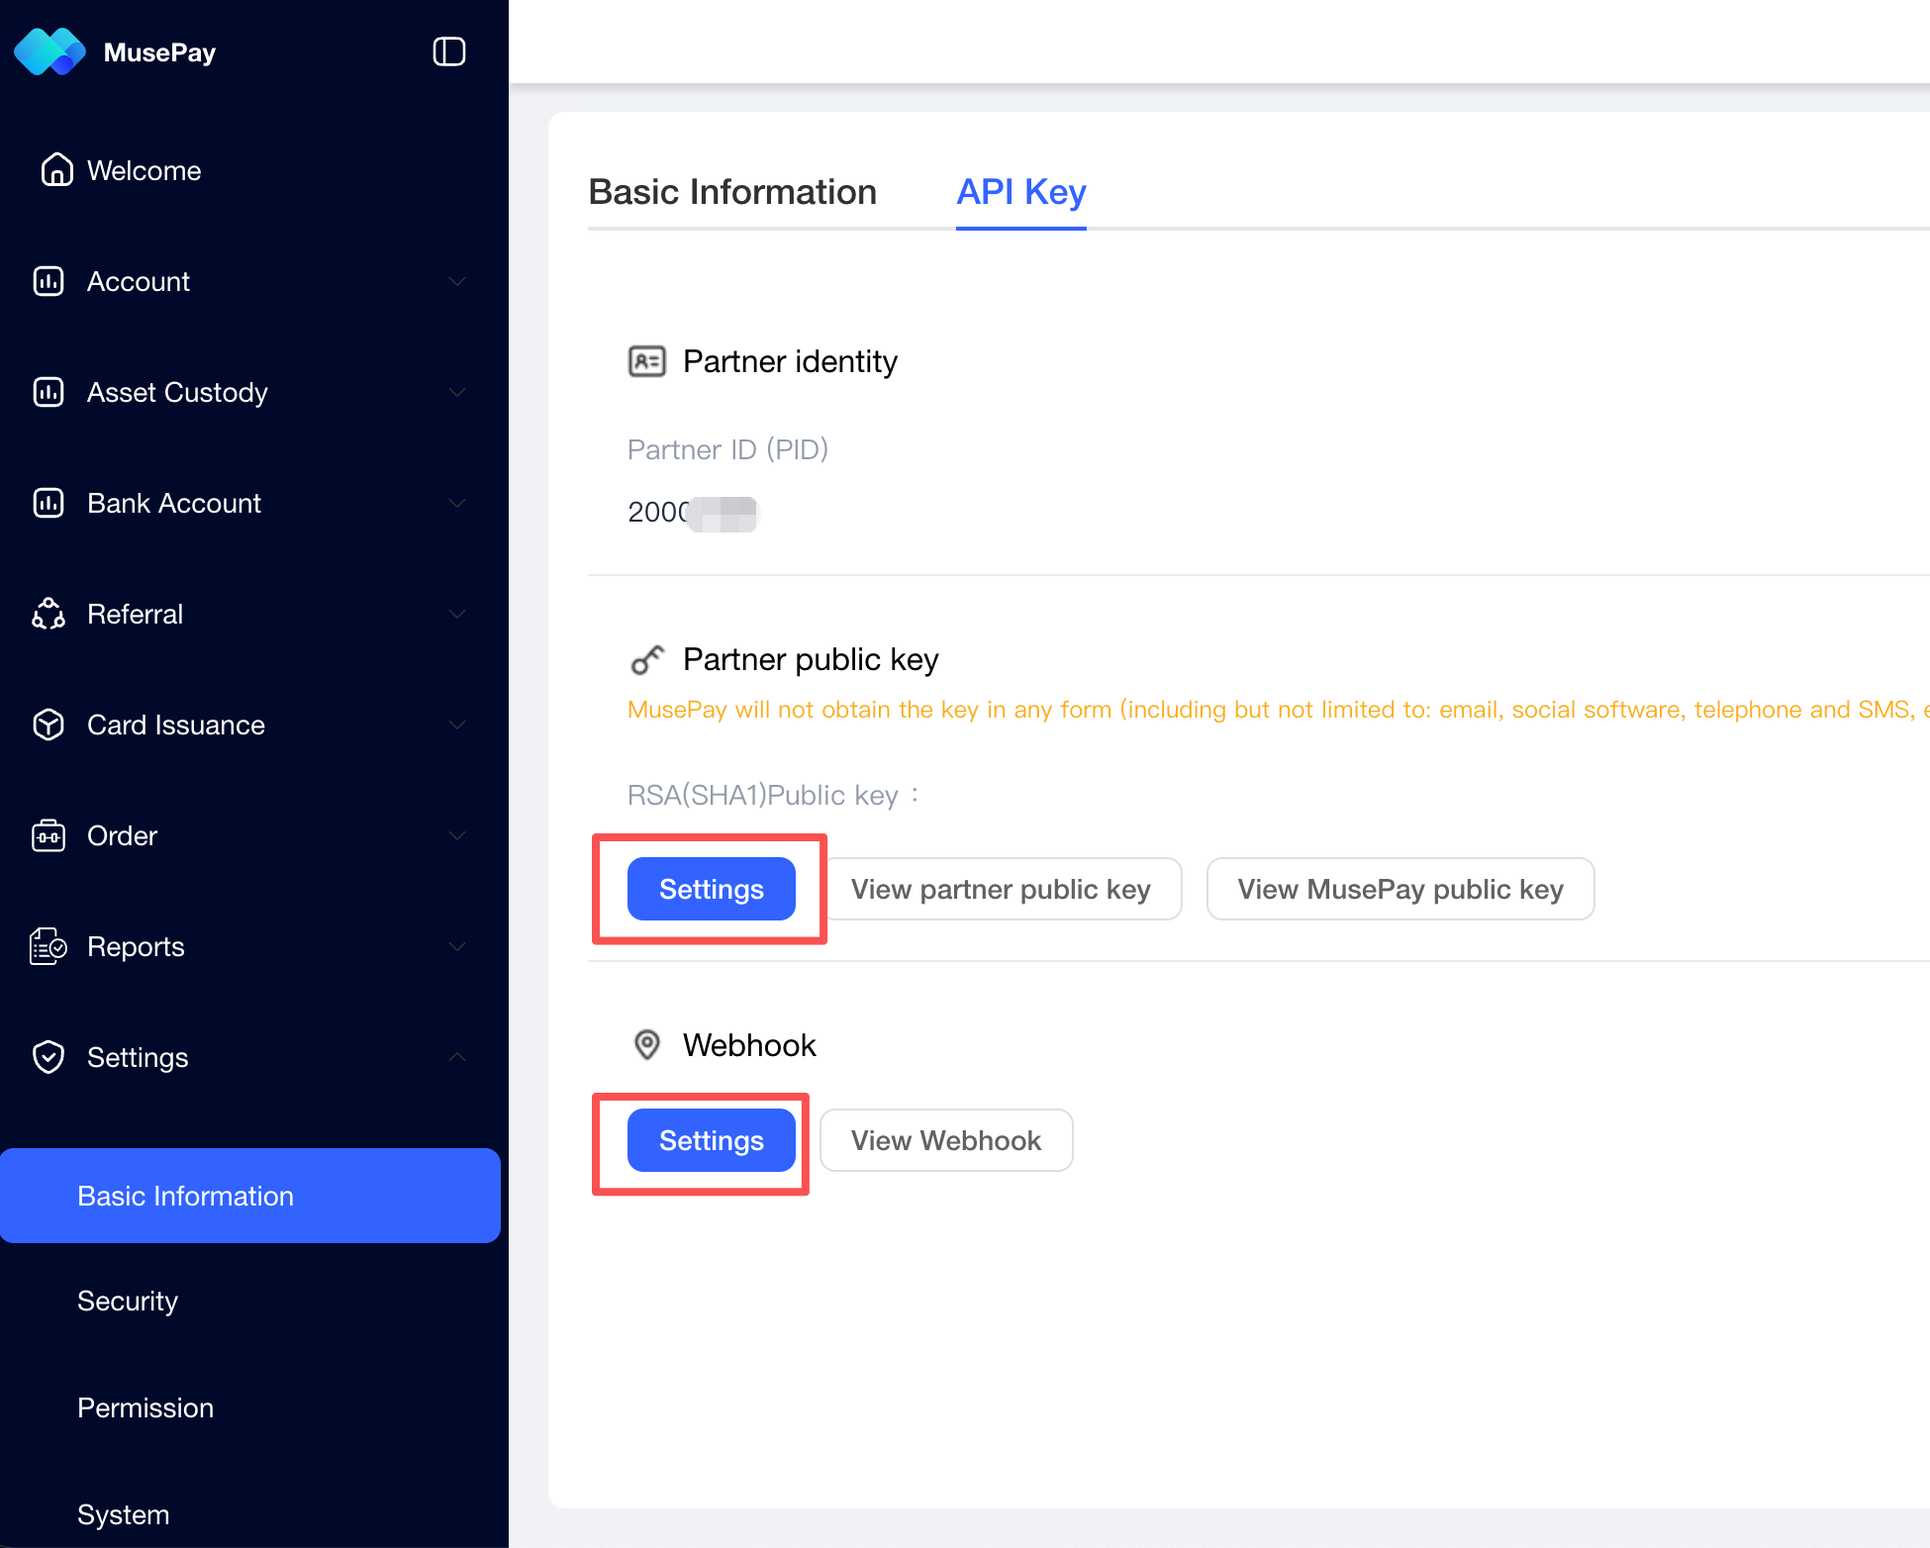
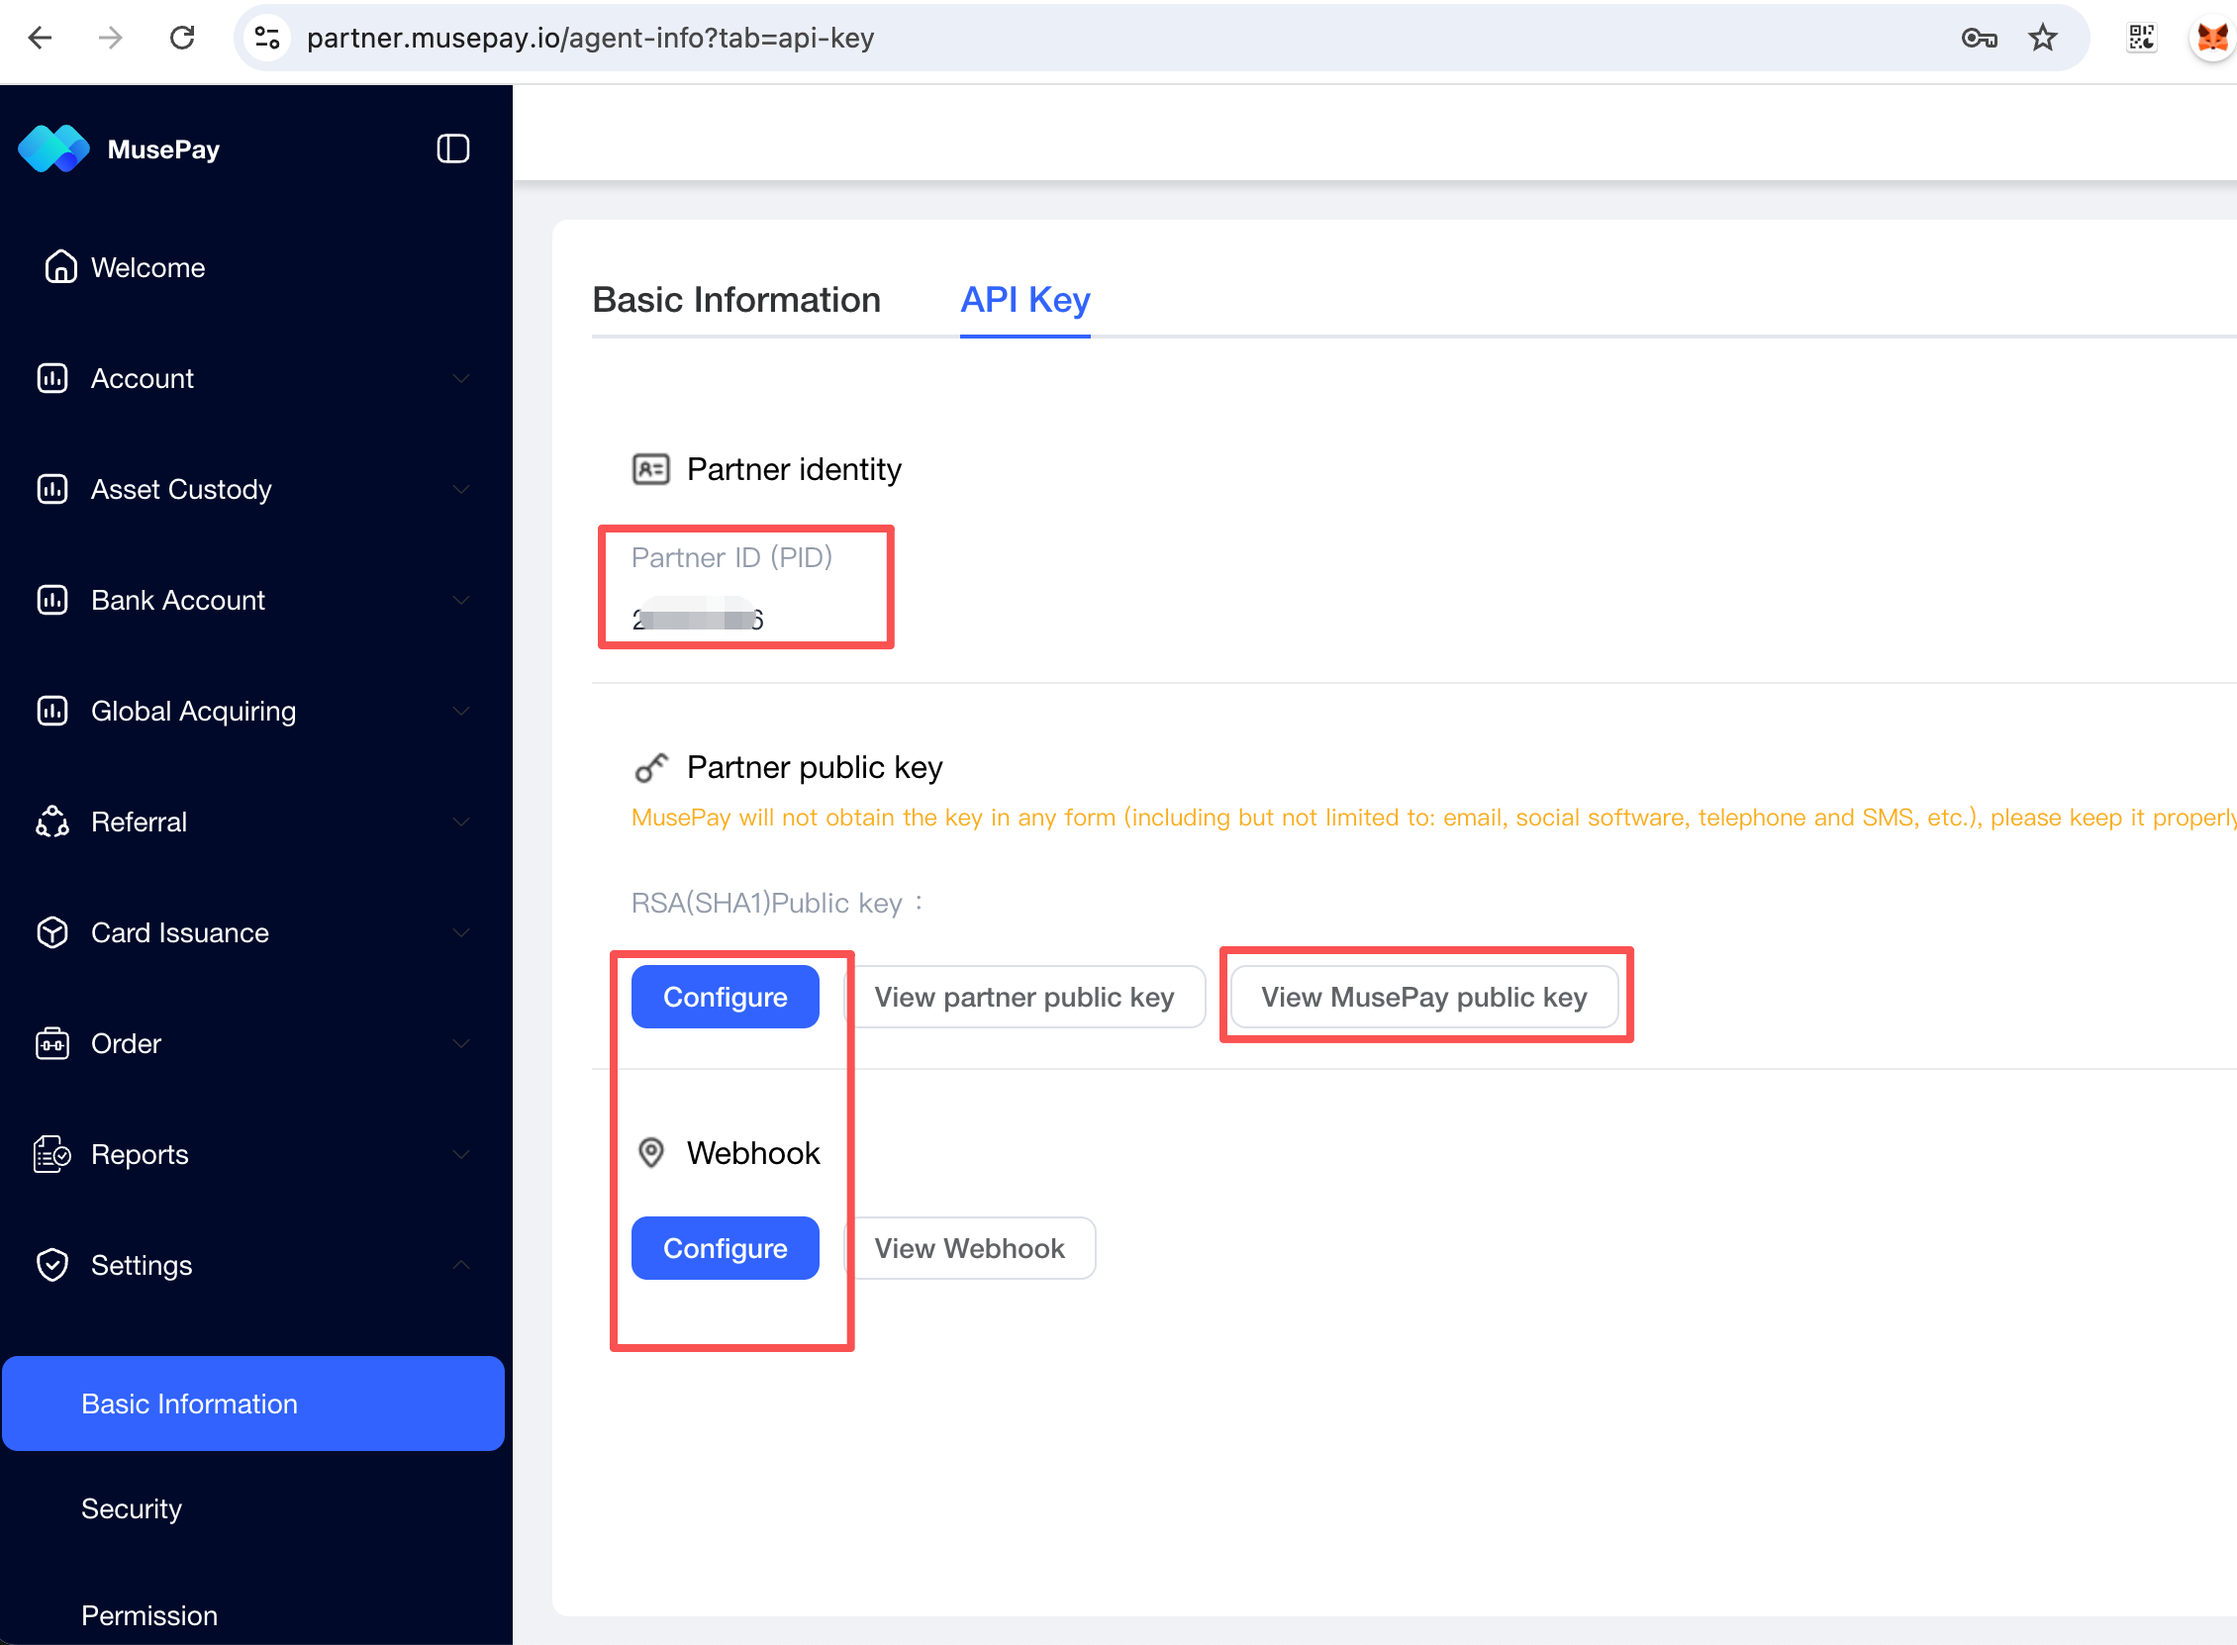
docs: expand checkout integration guidance

diff --git a/payment-api/integration/acquiring-api/checkout-payment-methods.md b/payment-api/integration/acquiring-api/checkout-payment-methods.md
@@ -1,0 +1,91 @@
+---
+description: Choose between multi-chain and specified-chain Checkout Mode payments.
+---
+
+# Checkout Payment Methods
+
+Checkout Mode supports two payment experiences controlled by `payment_method`. Choose whether the user can select a supported USDT network on the checkout page or whether your order requires a specific network.
+
+## At a glance
+
+| Checkout experience | `payment_method` | `currency` or `pay_currency` | User experience |
+| --- | --- | --- | --- |
+| Multi-chain checkout | `on_line` | `USDT` | The checkout page lets the user choose any supported network for USDT. |
+| Specified-chain checkout | `on_chain` | A chain-specific asset such as `USDT_TRC20` | The checkout page and returned payment address are fixed to the specified network. |
+
+## Which currency field to use
+
+The field depends on how the order amount is denominated:
+
+* For a crypto-denominated order, set `currency` to `USDT` or a chain-specific USDT asset.
+* For a fiat-denominated order, set `currency` to the fiat currency and use `pay_currency` to control how the user pays.
+
+## Multi-chain checkout with `on_line`
+
+Use `payment_method=on_line` when you want the user to choose the payment network on the hosted checkout page. Set the applicable payment asset field to the generic `USDT` code.
+
+For a crypto-denominated order, the relevant fields are:
+
+```json
+{
+  "payment_method": "on_line",
+  "currency": "USDT"
+}
+```
+
+For a fiat-denominated order, keep the fiat currency in `currency` and set `pay_currency` to `USDT`:
+
+```json
+{
+  "payment_method": "on_line",
+  "currency": "IDR",
+  "pay_currency": "USDT"
+}
+```
+
+The user can then choose any USDT network supported by MusePay.
+
+<figure><img src="../../.gitbook/assets/checkout-on-line.png" alt="Hosted checkout generated with payment_method set to on_line"><figcaption>The <code>on_line</code> checkout lets the user select a supported USDT network before paying.</figcaption></figure>
+
+{% content-ref url="../../reference/api-reference/acquiring-api/checkout-mode/multiple-chain-checkout.md" %}
+[Multiple Chain Checkout example](../../reference/api-reference/acquiring-api/checkout-mode/multiple-chain-checkout.md)
+{% endcontent-ref %}
+
+## Specified-chain checkout with `on_chain`
+
+Use `payment_method=on_chain` when the order must be paid on a specific network. Set the applicable payment asset field to a chain-specific code such as `USDT_TRC20`.
+
+For a crypto-denominated order, the relevant fields are:
+
+```json
+{
+  "payment_method": "on_chain",
+  "currency": "USDT_TRC20"
+}
+```
+
+For a fiat-denominated order, keep the fiat currency in `currency` and specify the network in `pay_currency`:
+
+```json
+{
+  "payment_method": "on_chain",
+  "currency": "IDR",
+  "pay_currency": "USDT_TRC20"
+}
+```
+
+The hosted checkout page and the address returned for the order will accept USDT on that network only.
+
+{% content-ref url="../../reference/api-reference/acquiring-api/checkout-mode/specified-chain-checkout.md" %}
+[Specified Chain Checkout example](../../reference/api-reference/acquiring-api/checkout-mode/specified-chain-checkout.md)
+{% endcontent-ref %}
+
+{% hint style="warning" %}
+Use the generic `USDT` code only with `on_line`. With `on_chain`, select a chain-specific USDT code from [Supported Assets](../supported-assets.md). Sending funds over a different network may result in the payment not being credited.
+{% endhint %}
+
+## Related references
+
+* [Create Checkout Order](../../reference/api-reference/acquiring-api/checkout-mode/README.md)
+* [Checkout Payment Amount Handling](checkout-payment-amount-handling.md)
+* [Order webhook](../../webhook/order.md)

diff --git a/payment-api/integration/acquiring-api/README.md b/payment-api/integration/acquiring-api/README.md
@@ -52,6 +52,10 @@ Checkout Mode creates a new payment context for each order. Your system creates 
 5. When the webhook arrives, verify it and reconcile the reported payment with your local order before fulfilling it.
 6. Use [Query Order](../../reference/api-reference/acquiring-api/query-order.md) to retrieve the latest order status when needed.
 
+{% content-ref url="checkout-payment-methods.md" %}
+[Checkout Payment Methods](checkout-payment-methods.md)
+{% endcontent-ref %}
+
 {% hint style="info" %}
 Payments can be underpaid, overpaid, or received after the address expires. Review [Checkout Payment Amount Handling](checkout-payment-amount-handling.md) before defining your fulfillment rules, and base fulfillment on the webhook or query result rather than the initial create-order response.
 {% endhint %}
@@ -65,6 +69,7 @@ Payments can be underpaid, overpaid, or received after the address expires. Revi
 * [Supported Assets](../supported-assets.md)
 * [Wallet Mode endpoints](../../reference/api-reference/acquiring-api/wallet-mode.md)
 * [Checkout Mode endpoint](../../reference/api-reference/acquiring-api/checkout-mode/README.md)
+* [Checkout Payment Methods](checkout-payment-methods.md)
 * [Checkout Payment Amount Handling](checkout-payment-amount-handling.md)
 * [Order webhook](../../webhook/order.md)
 * [Order statuses](../../enums/order-status.md)

diff --git a/payment-api/reference/api-reference/acquiring-api/checkout-mode/multiple-chain-checkout.md b/payment-api/reference/api-reference/acquiring-api/checkout-mode/multiple-chain-checkout.md
@@ -1,4 +1,6 @@
-# multiple chain checkout
+# Multiple Chain Checkout
+
+Use `payment_method=on_line` with the generic `USDT` asset code. The hosted checkout page lets the user choose any supported USDT network.
 
 ## Example
 
@@ -9,7 +11,7 @@ curl --location --request POST '/v1/order/pay' \
 --header 'Content-Type: application/json' \
 --data-raw '{
     * "request_id": "custom_code9982674851738108",
-    * "currency": "USDT_BSC", 
+    * "currency": "USDT",
     * "amount": "150",
     * "payment_method": "on_line",   
     * "product_name": "product info",
@@ -28,7 +30,7 @@ curl --location --request POST '/v1/order/pay' \
 --data-raw '{
     * "request_id": "custom_code9982674851738108",
     * "currency": "IDR",
-      "pay_currency": "USDT_BSC", 
+      "pay_currency": "USDT",
     * "amount": "21000",  //fiat amount
     * "payment_method": "on_line",   
     * "product_name": "product info",
@@ -48,7 +50,7 @@ curl --location --request POST '/v1/order/pay' \
     "request_id":"custom_code9982674851738108",
     "partner_id":"2000051",
     "order_no":"202406173100230009031352048",
-    "currency":"USDT_BSC",
+    "currency":"USDT",
     "order_amount":"30",
     "status":22,
     "payment_method":"on_line",

diff --git a/payment-api/reference/api-reference/card-api/card-user.md b/payment-api/reference/api-reference/card-api/card-user.md
@@ -190,9 +190,10 @@ curl --location --request POST 'https://api.musepay.io/v1/carduser/create' \
 {
 "data":
    { 
-    "user_xid":"aabcdfsf",  //user external id       
+    "user_xid":"aabcdfsf",  //user external id
     "user_id":"8000123",    //user id
     "kyc_status":"0",
+    "kyc_level":"1",
     "email": "abc@abc.com",
     "phone_number": "2323",
     "last_name": "abc",
@@ -206,6 +207,12 @@ curl --location --request POST 'https://api.musepay.io/v1/carduser/create' \
 ```
 {% endtab %}
 {% endtabs %}
+
+#### Response Field
+
+| Name | Type | Description |
+| --- | --- | --- |
+| kyc\_level | String | The cardholder's current KYC level. |
 
 ## Upload User KYC
 

diff --git a/payment-api/SUMMARY.md b/payment-api/SUMMARY.md
@@ -7,6 +7,7 @@
 
 * [Authentication](integration/authentication.md)
 * [Acquiring API](integration/acquiring-api/README.md)
+  * [Checkout Payment Methods](integration/acquiring-api/checkout-payment-methods.md)
   * [Checkout Payment Amount Handling](integration/acquiring-api/checkout-payment-amount-handling.md)
 * [Card API](integration/card-api/README.md)
   * [How to Issue a Card](integration/card-api/how-to-issue-a-card.md)
